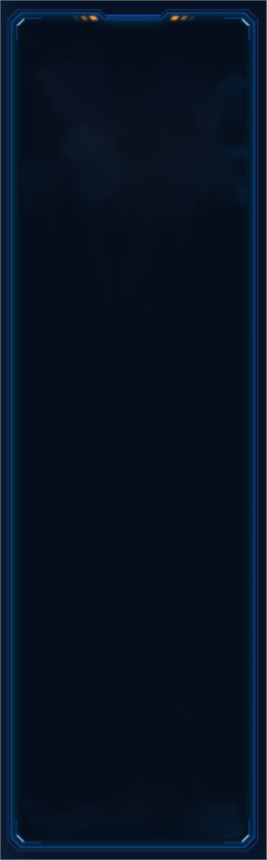
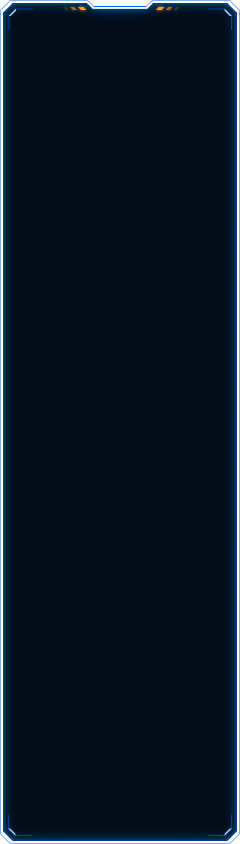
panel背景

Changed region(s): [[0.0, 0.0, 1.0, 1.0]]

diff --git a/src/components/panel.vue b/src/components/panel.vue
@@ -1,5 +1,5 @@
 <template>
-  <div>
+  <div class="panelFatherBox">
     <el-container class="panelBox" :style="{ minHeight: `${panelBoxHeight}` }">
       <el-header v-show="panelHeaderShow">
         <el-breadcrumb separator="/">
@@ -47,7 +47,7 @@ export default {
     },
     panelBoxHeight: {
       type: String,
-      default: 'calc(100vh - 102px)',
+      default: 'calc(100vh - 122px)',
     }
   },
   created() {
@@ -85,77 +85,86 @@ export default {
 </script>
     
 <style lang="less" scoped>
-.panelBox {
-  width: 100%;
-  background: linear-gradient(to bottom, #0D1F38, #0D1D35, #0D1E36);
-}
+.panelFatherBox {
+  margin: 10px 20px;
 
-.el-header {
-  .el-breadcrumb {
-    position: relative;
-    padding: 0 0 0 60px;
-    height: 60px;
-    line-height: 60px;
-    width: 500px;
-    z-index: 1;
-    background-image: url('../assets/title.png');
-    background-repeat: repeat;
+  .panelBox {
+    padding: 15px 0;
+    background-image: url('../assets/内容背景.png');
+    background-repeat: no-repeat;
     background-size: 100% 100%;
+  }
 
-    &::before {
-      content: "";
-      position: absolute;
-      top: 22px;
-      left: 15px;
-      width: 30px;
-      height: 15px;
-      background-image: url('../assets/titleIcon.png');
+  .el-header {
+    height: 70px !important;
+
+    .el-breadcrumb {
+      position: relative;
+      padding: 0 0 0 60px;
+      height: 60px;
+      line-height: 60px;
+      width: 500px;
+      z-index: 1;
+      background-image: url('../assets/title.png');
       background-repeat: repeat;
       background-size: 100% 100%;
-      z-index: -1;
-    }
 
-    .titleContent {
-      // font-weight: bold;
-      font-size: 20px;
-      font-family: 'YouSheBiaoTiHei-Regular', 'YouSheBiaoTiHei';
-      background: linear-gradient(180deg, #FFFFFF 0%, #B1CCFF 83%, #9CBFFF 100%);
-      -webkit-background-clip: text;
-      -webkit-text-fill-color: transparent;
+      &::before {
+        content: "";
+        position: absolute;
+        top: 22px;
+        left: 15px;
+        width: 30px;
+        height: 15px;
+        background-image: url('../assets/titleIcon.png');
+        background-repeat: repeat;
+        background-size: 100% 100%;
+        z-index: -1;
+      }
+
+      .titleContent {
+        // font-weight: bold;
+        font-size: 20px;
+        font-family: 'YouSheBiaoTiHei-Regular', 'YouSheBiaoTiHei';
+        background: linear-gradient(180deg, #FFFFFF 0%, #B1CCFF 83%, #9CBFFF 100%);
+        -webkit-background-clip: text;
+        -webkit-text-fill-color: transparent;
+      }
     }
   }
-}
 
-.el-main {
-  padding: 10px;
-}
+  .el-main {
+    padding: 10px;
+  }
 
-.el-aside {
-  color: #333;
+  .el-aside {
+    color: #333;
+
+    .borderBox {
+      position: relative;
+      height: calc(100% - 20px);
+      padding: 20px 0px 0 50px;
+      z-index: 1;
+      overflow: hidden;
+
+      &::before {
+        content: "";
+        position: absolute;
+        top: 0;
+        left: 20px;
+        width: calc(100% - 20px);
+        height: 100%;
+        background-image: url('../assets/border.png');
+        background-repeat: repeat;
+        background-size: 100% 100%;
+        z-index: -1;
+      }
+    }
+  }
 }
 
 ::v-deep .el-breadcrumb__inner a {
   color: #ffffff;
-}
-
-.borderBox {
-  position: relative;
-  height: calc(100% - 50px);
-  padding: 50px 40px 0;
-  z-index: 1;
-
-  &::before {
-    content: "";
-    position: absolute;
-    top: 0;
-    left: 0;
-    width: 100%;
-    height: 100%;
-    background-image: url('../assets/border.png');
-    background-repeat: repeat;
-    background-size: 100% 100%;
-    z-index: -1;
-  }
 }
 </style>
     

diff --git a/src/views/emigrationDynamics/index.vue b/src/views/emigrationDynamics/index.vue
@@ -4,7 +4,19 @@
     <panel :panelAsideShow="true">
       <template #aside>
         <el-form ref="fromRef" :model="asideForm" :label-position="'top'" label-width="80px">
-          <el-form-item label="地区">
+          <el-form-item label="所属行业">
+            <el-select v-model="asideForm.district" placeholder="请选择">
+              <el-option v-for="dict in dict.type.districtList" :key="dict.value" :label="dict.label"
+                :value="dict.value"></el-option>
+            </el-select>
+          </el-form-item>
+          <el-form-item label="内外资">
+            <el-select v-model="asideForm.district" placeholder="请选择">
+              <el-option v-for="dict in dict.type.districtList" :key="dict.value" :label="dict.label"
+                :value="dict.value"></el-option>
+            </el-select>
+          </el-form-item>
+          <el-form-item label="外迁地">
             <el-select v-model="asideForm.district" placeholder="请选择">
               <el-option v-for="dict in dict.type.districtList" :key="dict.value" :label="dict.label"
                 :value="dict.value"></el-option>
@@ -23,12 +35,17 @@
       </template>
       <template #main>
         <vTable :tableColumn="tableColumn" :tableData="tableData" :tableTotal="tableTotal"
-          :height="'calc(100vh -  285px)'" @tableChange="tableChange"></vTable>
+          :height="'calc(100vh -  335px)'" @tableChange="tableChange">
+          <template #header>
+            <el-input :style="{ 'width': '200px', 'float': 'right', 'margin-bottom': '10px' }" v-model="asideForm.name"
+              placeholder="企业名称"></el-input>
+          </template>
+        </vTable>
       </template>
     </panel>
   </div>
 </template>
-    
+      
 <script>
 import panel from '../../components/panel.vue'
 import vTable from '../../components/vTable.vue'
@@ -56,6 +73,11 @@ export default {
         {
           prop: 'title',
           label: '政策标题',
+        },
+        {
+          prop: 'title',
+          label: '相关产业',
+          width: '200'
         },
         {
           prop: 'time',
@@ -99,7 +121,7 @@ export default {
   }
 }
 </script>
-    
+      
 <style lang="less" scoped>
 ::v-deep .el-form {
   background: #ffffff00;

diff --git a/src/components/vTable.vue b/src/components/vTable.vue
@@ -1,12 +1,16 @@
 <template>
   <div style="display: flex;">
     <div :style="currentChangePanel && expansion ? { 'width': 'calc(100% - 500px)' } : ''">
+      <template>
+        <slot show-overflow-tooltip name="header">
+        </slot>
+      </template>
       <el-table :data="tableData" :height="height" stripe highlight-current-row @current-change="handleCurrentChange"
         @selection-change="handleSelectionChange">
         <el-table-column v-if="selectionShow" type="selection" width="55">
         </el-table-column>
         <el-table-column v-for="( item, tCindex ) in  tableColumn " :key="tCindex" :fixed="item.fixed" :prop="item.prop"
-          :min-width="'100px'" :label="item.label" :width="item.width">
+          :min-width="'100px'" :label="item.label" :width="item.width" :sortable="item.sortable">
           <template #default="scope">
             <div @click="item.handle && item.handle(scope)">
               <span v-if="item.filter" :class="item.handle ? 'spanClass' : ''">
@@ -220,7 +224,7 @@ export default {
   }
 
   .text {
-    height: calc(100vh - 320px);
+    height: calc(100vh - 380px);
     color: #B8BECC;
     overflow: auto;
     font-family: Microsoft YaHei-Regular, Microsoft YaHei;

diff --git a/src/router/index.js b/src/router/index.js
@@ -41,15 +41,20 @@ const routes = [
         meta: { title: '国际制造业监测', icon: 'dashboard' },
         component: () => import('../views/manufacturingMonitoring/index.vue')
       }, {
-        path: '/index/industrialRelief',
-        name: 'industrialRelief',
-        meta: { title: '产业救济', icon: 'dashboard' },
-        component: () => import('../views/industrialRelief/index.vue')
-      }, {
         path: '/index/supplyChainPolicy',
         name: 'supplyChainPolicy',
         meta: { title: '国际供应链政策', icon: 'dashboard' },
         component: () => import('../views/supplyChainPolicy/index.vue')
+      }, {
+        path: '/index/emigrationDynamics',
+        name: 'emigrationDynamics',
+        meta: { title: '国际企业外迁动态', icon: 'dashboard' },
+        component: () => import('../views/emigrationDynamics/index.vue')
+      }, {
+        path: '/index/industrialRelief',
+        name: 'industrialRelief',
+        meta: { title: '产业救济', icon: 'dashboard' },
+        component: () => import('../views/industrialRelief/index.vue')
       }
     ]
   },

diff --git a/src/views/index.vue b/src/views/index.vue
@@ -45,7 +45,7 @@
         </el-table>
       </div>
       <div class="asideContent">
-        <BlockTitle :type="'more'" :title="'国际企业外迁动态'" @titleClick="expandView('/index/chartList')" />
+        <BlockTitle :type="'more'" :title="'国际企业外迁动态'" @titleClick="expandView('/index/emigrationDynamics')" />
         <el-table class="hide-header" :height="'calc(100% - 40px)'" :data="policyData" stripe>
           <el-table-column prop="title" label="标题" min-width="70%" header-align="left">
             <template v-slot="scope">
